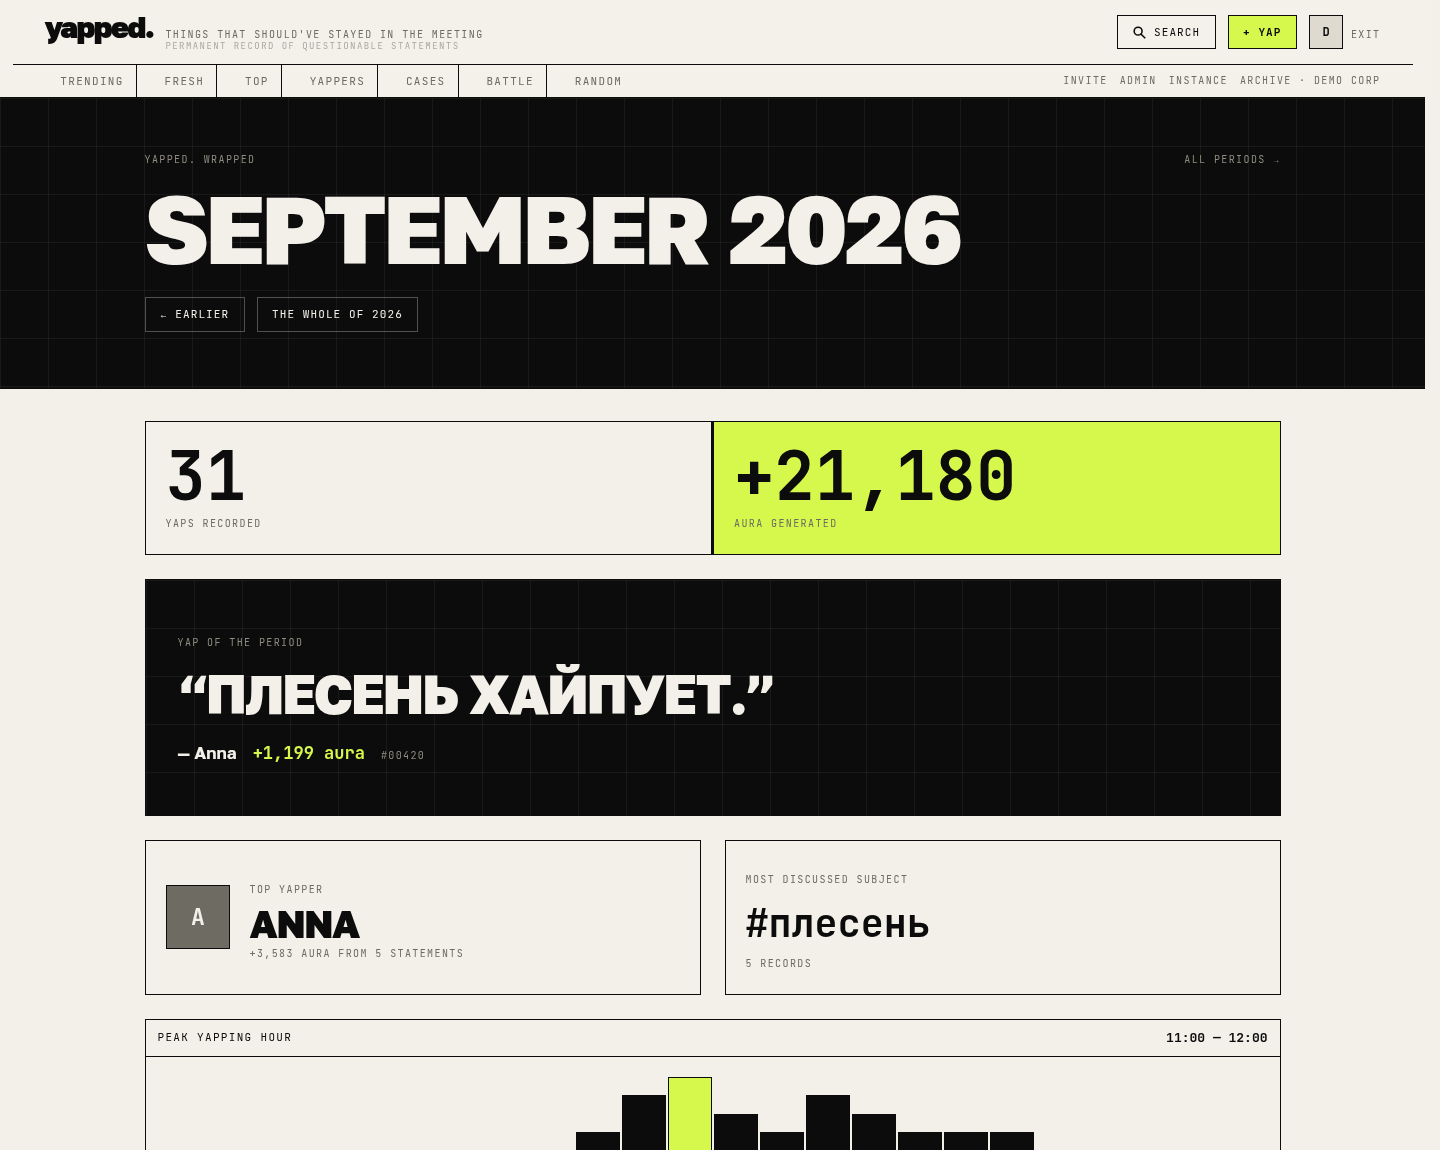
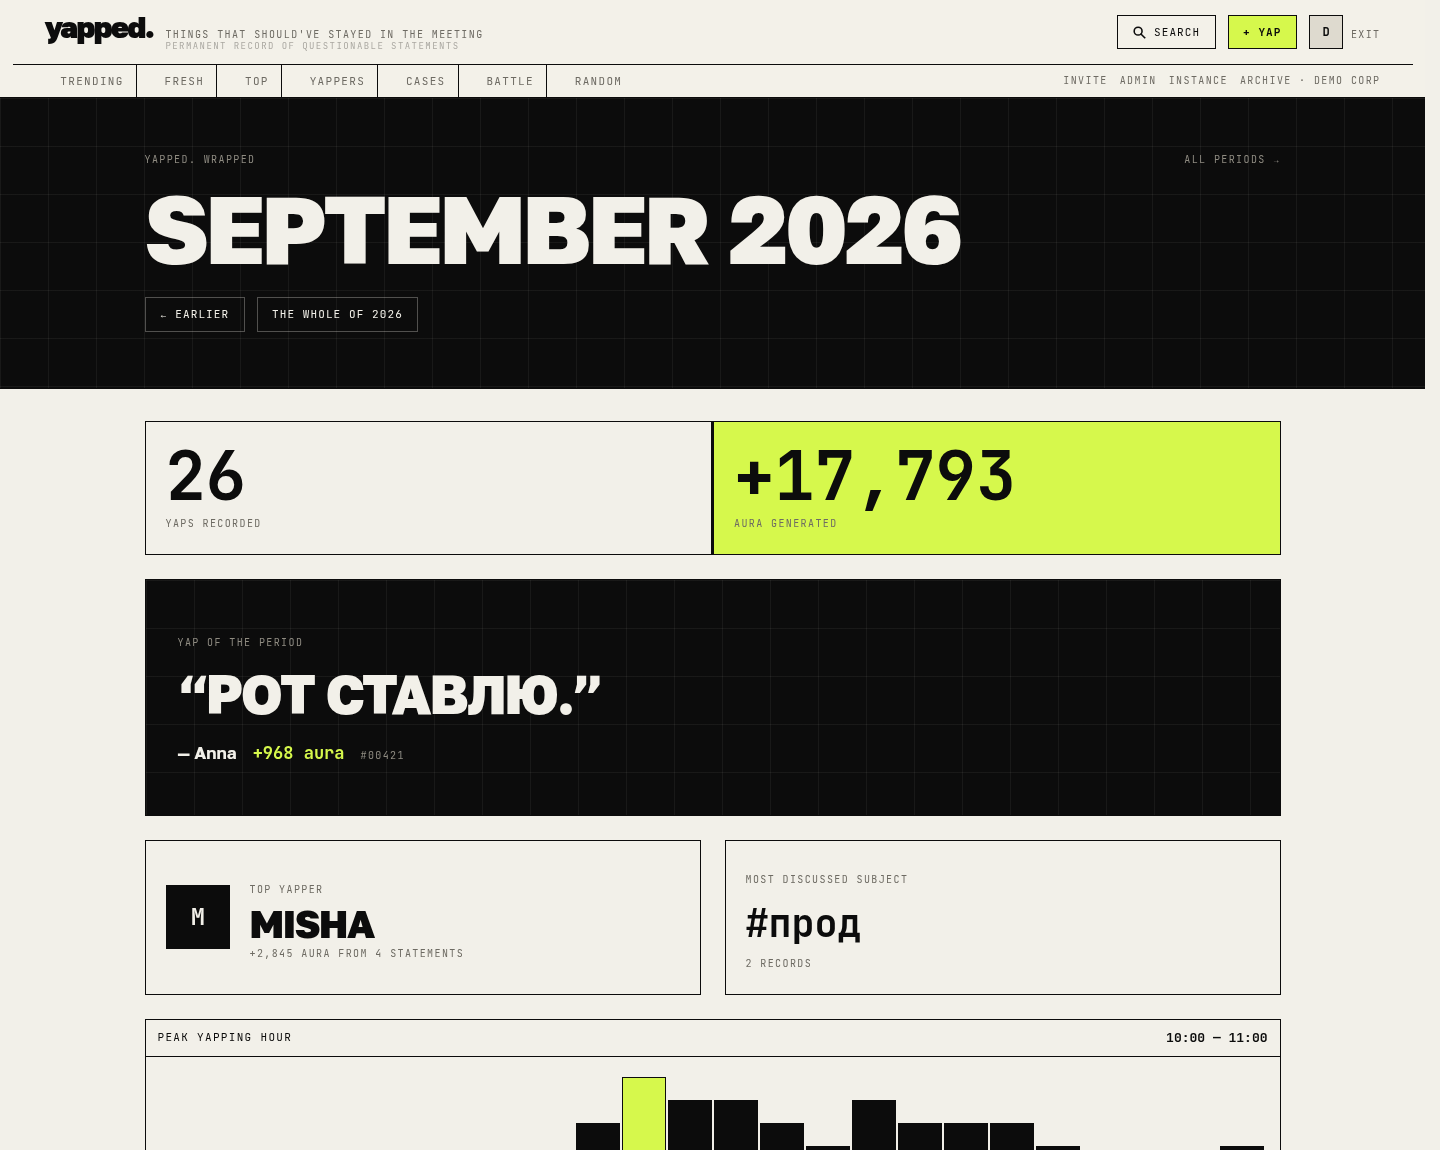
upd screens

diff --git a/prisma/seed/fixture.ts b/prisma/seed/fixture.ts
@@ -111,7 +111,10 @@ export const YAPS: SeedYap[] = [
   {
     text: "Плесень хайпует.",
     author: "Anna",
-    daysAgo: 2,
+    // The founding incident sits a month back, not yesterday: it is the
+    // archive's origin story, and leaving it on top made every default view
+    // read as though this office only ever discussed mould.
+    daysAgo: 28,
     hour: 14,
     minute: 37,
     tags: ["плесень", "хайп", "классика", "дизайн"],
@@ -581,7 +584,7 @@ export const YAPS: SeedYap[] = [
   {
     text: "Запиши это.",
     author: "Dima",
-    daysAgo: 2,
+    daysAgo: 28,
     hour: 14,
     minute: 37,
     tags: ["плесень", "архив", "основание"],
@@ -591,7 +594,7 @@ export const YAPS: SeedYap[] = [
   {
     text: "Зачем?",
     author: "Anna",
-    daysAgo: 2,
+    daysAgo: 28,
     hour: 14,
     minute: 38,
     tags: ["плесень", "вопрос"],
@@ -600,7 +603,7 @@ export const YAPS: SeedYap[] = [
   {
     text: "Уберите плесень с макета.",
     author: "Yulia",
-    daysAgo: 1,
+    daysAgo: 27,
     hour: 11,
     minute: 4,
     tags: ["плесень", "дизайн", "просьба"],
@@ -609,7 +612,7 @@ export const YAPS: SeedYap[] = [
   {
     text: "Плесень — это фича.",
     author: "Misha",
-    daysAgo: 1,
+    daysAgo: 27,
     hour: 11,
     minute: 9,
     tags: ["плесень", "фича", "классика"],

diff --git a/prisma/seed/demo.ts b/prisma/seed/demo.ts
@@ -453,7 +453,10 @@ export async function seedDemo(): Promise<void> {
   console.log(`  ${certified} certified yaps`);
   console.log(`  ${battleRows.length} battles`);
   console.log(`  login: anna / yapped123`);
-  console.log(`  ${UNCLAIMED_YAPPER} is quoted but has no account — claimable on /register`);
+  console.log(
+    `  ${UNCLAIMED_YAPPER} is quoted but has no account — claimable by registering` +
+      ` under that exact name through an invite link`,
+  );
 }
 
 
